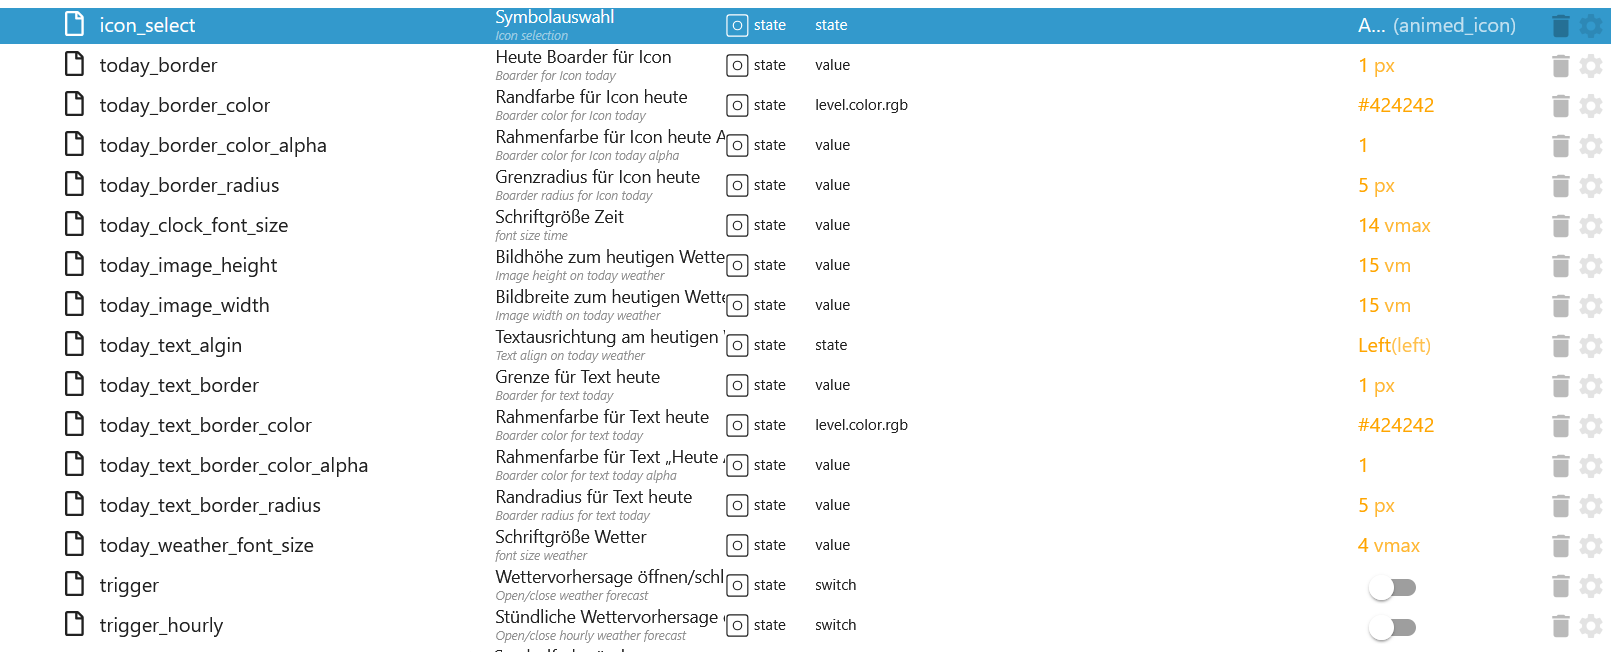
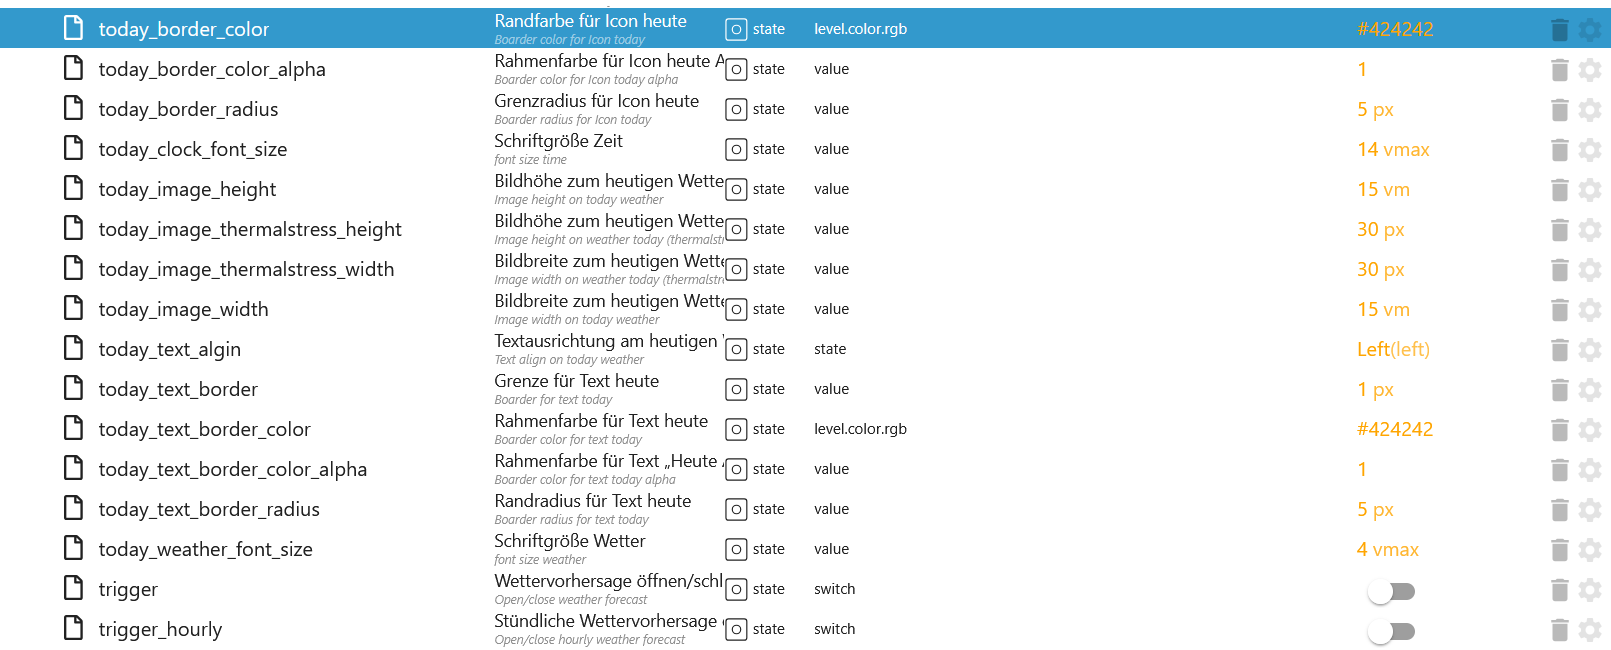
add images size & temp unit

diff --git a/lib/svgCreater.js b/lib/svgCreater.js
@@ -870,6 +870,128 @@ module.exports = class SVG {
         return s;
     }
 
+    async windrose2(degrees, html) {
+        let d = degrees;
+        d = d - 6;
+        let c = d + 12;
+        if (degrees >= 180 || degrees <= 0 || degrees === 360) {
+            d = -degrees;
+            d = d - 6;
+            c = d + 12;
+        }
+        if (!html.compass_bg_color_left) {
+            const val = await this.adapter.getStateAsync(`html.compass_bg_color_left`);
+            if (val && val.val) {
+                html.compass_bg_color_left = val.val;
+            } else {
+                html.compass_bg_color_left = "#6b7280";
+            }
+        }
+        if (!html.compass_bg_color_right) {
+            const val = await this.adapter.getStateAsync(`html.compass_bg_color_right`);
+            if (val && val.val) {
+                html.compass_bg_color_right = val.val;
+            } else {
+                html.compass_bg_color_right = "#6b7280";
+            }
+        }
+        if (!html.compass_bg_color_bottom) {
+            const val = await this.adapter.getStateAsync(`html.compass_bg_color_bottom`);
+            if (val && val.val) {
+                html.compass_bg_color_bottom = val.val;
+            } else {
+                html.compass_bg_color_bottom = "374151";
+            }
+        }
+        if (!html.compass_color_border) {
+            const val = await this.adapter.getStateAsync(`html.compass_color_border`);
+            if (val && val.val) {
+                html.compass_color_border = val.val;
+            } else {
+                html.compass_color_border = "#e5e7eb";
+            }
+        }
+        if (!html.compass_color_font) {
+            const val = await this.adapter.getStateAsync(`html.compass_color_font`);
+            if (val && val.val) {
+                html.compass_color_font = val.val;
+            } else {
+                html.compass_color_font = "#9ca3af";
+            }
+        }
+        if (!html.compass_color_needle_north) {
+            const val = await this.adapter.getStateAsync(`html.compass_color_needle_north`);
+            if (val && val.val) {
+                html.compass_color_needle_north = val.val;
+            } else {
+                html.compass_color_needle_north = "#ef4444";
+            }
+        }
+        if (!html.compass_color_needle_south) {
+            const val = await this.adapter.getStateAsync(`html.compass_color_needle_south`);
+            if (val && val.val) {
+                html.compass_color_needle_south = val.val;
+            } else {
+                html.compass_color_needle_south = "#ffffff";
+            }
+        }
+        let s = `<svg xmlns="http://www.w3.org/2000/svg"  version="1.1" width="120" height="120" style="">`;
+        s += `<rect id="backgroundrect" width="100%" height="100%" x="0" y="0" fill="none" stroke="none" style="" class=""/>`;
+        s += `<defs>`;
+        s += `    <linearGradient id="a" x1="0.25" x2="0.75" y1="0.06701389948527019" y2="0.9329861534966363">`;
+        s += `        <stop offset="0" stop-color="${html.compass_bg_color_left}"/>`;
+        s += `        <stop offset=".5" stop-color="${html.compass_bg_color_right}"/>`;
+        s += `        <stop offset="1" stop-color="${html.compass_bg_color_bottom}"/>`;
+        s += `    </linearGradient>`;
+        s += `</defs>`;
+        s += `<g class="currentLayer" style="">`;
+        s += `<title>Layer 1</title>`;
+        s += `<circle cx="256" cy="256" r="144" fill="url(#a)" stroke="${html.compass_color_border}" stroke-miterlimit="10" stroke-width="12"`;
+        s += ` id="svg_1" class="" transform="translate(-1.47059) translate(2.20588, -0.735294) translate(-8.08823, -5.14706)`;
+        s += ` translate(-100.735, -102.941) translate(0, 0.735294) translate(112, 112) scale(0.425551, 0.402574)`;
+        s += ` translate(-112, -112) translate(112, 112) scale(0.864685, 0.85192) translate(-112, -112)`;
+        s += ` translate(112, 112) scale(1.05872, 1.11489) translate(-112, -112)"/>`;
+        s += `<path fill="${html.compass_color_font}"`;
+        s += ` d="M61.44080308173051,15.0227437891938 v-4.305084676581498 h1.9369577624180114 v7.451108094083361`;
+        s += ` h-1.9790655398618813 l-2.652789978963799,-4.305084676581498 v4.305084676581498 h-1.9369577624180114`;
+        s += ` v-7.451108094083361 h1.9790655398618813 zm43.49733409951753,43.75456253025617 v1.3660364839152832`;
+        s += ` h4.126562189499244 v1.6558017986851947 h-6.105627729361124 v-7.451108094083361 H108.93837603841565`;
+        s += ` v1.6558017986851947 h-4.000238857167632 v1.2418513490138938 h3.4949455278411947 v1.5730117087509319`;
+        s += ` zm-44.802675200277484,48.01825216187055 a3.5370533052850663,3.4771837772389023 0 0 1`;
+        s += ` -2.2738199819689706,-0.6623207194740793 a2.4422510917444495,2.4009126080935284 0 0 1`;
+        s += ` -0.8421555488773981,-1.821381978553711 h1.8527422075302722 c0,0.6623207194740793`;
+        s += ` 0.4631855518825689,0.9934810792111152 1.3053411007599651,0.9934810792111152 c0.757939993989657,0`;
+        s += ` 1.0948022135406157,-0.2483702698027794 1.0948022135406157,-0.7037157644412074`;
+        s += ` a0.5474011067703088,0.5381355845726875 0 0 0 -0.16843110977547981,-0.4139504496712983`;
+        s += ` a1.9369577624180114,1.9041720684879704 0 0 0 -0.6737244391019187,-0.28976531476990885`;
+        s += ` l-1.431664433091574,-0.28976531476990885 c-1.2211255458722252,-0.28976531476990885`;
+        s += ` -1.8527422075302722,-0.9934810792111152 -1.8527422075302722,-2.02835720338936 a2.1053888721934904,2.0697522483564885`;
+        s += ` 0 0 1 0.715832216545788,-1.6144067537180615 a3.158083308290236,3.104628372534734 0 0 1`;
+        s += ` 2.1474966496373606,-0.6209256745069492 a3.3686221955095856,3.3116035973703832 0 0 1`;
+        s += ` 2.1053888721934904,0.6209256745069492 a2.189604427081231,2.152542338290749 0 0 1`;
+        s += ` 0.8421555488773981,1.6558017986851947 h-1.8106344300864041 c-0.08421555488774009,-0.5795306295398176`;
+        s += ` -0.4210777744386988,-0.8279008993425979 -1.1369099909844853,-0.8279008993425979`;
+        s += ` a1.2211255458722252,1.2004563040467642 0 0 0 -0.6737244391019187,0.1655801798685194`;
+        s += ` a0.5474011067703088,0.5381355845726875 0 0 0 -0.2526466646632194,0.4139504496712983`;
+        s += ` c0,0.3311603597370395 0.21053888721934938,0.5381355845726875 0.6737244391019187,0.6623207194740793`;
+        s += ` l1.4737722105354436,0.3311603597370395 q1.9790655398618813,0.455345494638429 1.9790655398618813,2.111147293323619`;
+        s += ` a2.063281094749622,2.02835720338936 0 0 1 -0.8421555488773981,1.6971968436523226`;
+        s += ` a3.5791610827289353,3.518578822206032 0 0 1 -2.2317122045251003,0.6209256745069492`;
+        s += ` zM18.069792314544586,57.65964010533748 l0.8421555488773981,-3.3116035973703832`;
+        s += ` h1.9790655398618813 l-2.189604427081231,7.451108094083361 h-1.8948499849741425`;
+        s += ` l-1.0526944360967452,-4.760430171219926 l-0.9684788812090054,4.760430171219926`;
+        s += ` h-1.9369577624180114 l-2.189604427081231,-7.451108094083361 h1.9790655398618813`;
+        s += ` l0.8421555488773981,3.3116035973703832 l0.37896999699482947,1.7385918886194518`;
+        s += ` l0.29475444210709006,-1.7799869335865814 l0.715832216545788,-3.270208552403254`;
+        s += ` h1.8527422075302722 l0.757939993989657,3.3116035973703832 l0.2526466646632194,1.6971968436523226 z" id="svg_2" class=""/>`;
+        s += `<g id="svg_3" class="">`;
+        s += `<path fill="${html.compass_color_needle_north}" d="m60.77941118694807,24.205883547898267 l-11.132354095504578,35.10294304087203 h22.264708191009156 l-11.132354095504578,-35.10294304087203 z" id="svg_4"/>`;
+        s += `<path fill="${html.compass_color_needle_south}" d="m49.64705709144349,59.308826588770295 l11.132354095504578,35.10294304087203 l11.132354095504578,-35.10294304087203 h-22.264708191009156 z" id="svg_5"/>`;
+        s += `<animateTransform additive="sum" attributeName="transform" calcMode="spline" dur="2s" keySplines=".42, 0, .58, 1; .42, 0, .58, 1" repeatCount="indefinite" type="rotate" values="${d} 65 65; ${c} 65 65; ${d} 65 65"/>`;
+        s += `</g></g></svg>`;
+        return s;
+    }
+
     accumulator(filled, color1, color2) {
         let s = "";
         if (filled < 100) {

diff --git a/main.js b/main.js
@@ -1427,6 +1427,7 @@ class OpenMeteo extends utils.Adapter {
     }
 
     async updateHTML() {
+        const unit = this.config.temperaturUnit === "default" ? "°C" : "F";
         const bg =
             this.html.bg_color != "#000"
                 ? `	 background-color:${this.hexToRGBA(this.html.bg_color, this.html.bg_color_alpha)};`
@@ -1451,7 +1452,7 @@ class OpenMeteo extends utils.Adapter {
             actual_temperature = parseFloat(actual_temp.val.toString());
         }
         const actual =
-            `<img width="${this.html.today_weather_font_size * 5}px" height="${this.html.today_weather_font_size * 5}px" ` +
+            `<img width="${this.html.today_image_thermalstress_width}px" height="${this.html.today_image_thermalstress_height}px" ` +
             `style="vertical-align:middle" alt="${actual_temperature}" title="${actual_temperature}" ` +
             `src='/adapter/open-meteo/img/thermalstress/${this.getThermalStress(actual_temperature)}'/>`;
         const trigger_val = this.html.trigger ? false : true;
@@ -1499,7 +1500,7 @@ class OpenMeteo extends utils.Adapter {
             `        <span class="box_date"><b><i>${name}, ${actual_date}</i></b></span>` +
             `    </div>` +
             `    <div class="container_column">` +
-            `        <span class="box_weather">${actual} <b><i>${actual_temperature}°C</i></b></span>` +
+            `        <span class="box_weather">${actual} <b><i>${actual_temperature}${unit}</i></b></span>` +
             `        <span class="box_weather"><i>${actual_text}</i></span>` +
             `    </div>` +
             `</div>` +
@@ -1540,7 +1541,7 @@ class OpenMeteo extends utils.Adapter {
             html += `<tr>
                         <td>${constants.DAYNAME[new Date(times).getDay()][this.lang]}</td>
                         <td>${daily}</td>
-                        <td>${min} ${temp_min}°C ${constants.DAYNAME.unit[this.lang]} ${max} ${temp_max}°C</td>
+                        <td>${min} ${temp_min}${unit} ${constants.DAYNAME.unit[this.lang]} ${max} ${temp_max}${unit}</td>
                         <td>${direc}</td>
                         <td>${humi} ${humidity}%</td>
                         <td align="left">${text}</td>
@@ -1553,6 +1554,7 @@ class OpenMeteo extends utils.Adapter {
     }
 
     async updateHTMLHourly(actual_temperature) {
+        const unit = this.config.temperaturUnit === "default" ? "°C" : "F";
         let h = new Date().getHours();
         const bg =
             this.html.bg_color != "#000"
@@ -1570,7 +1572,7 @@ class OpenMeteo extends utils.Adapter {
         const actual_text = this.value[`hourly.day01.hour${`0${h}`.slice(-2)}.weather_code_text`];
         const actual_clock = `${`0${new Date().getHours()}`.slice(-2)}:` + `${`0${new Date().getMinutes()}`.slice(-2)}`;
         const actual =
-            `<img width="${this.html.today_weather_font_size * 5}px" height="${this.html.today_weather_font_size * 5}px" ` +
+            `<img width="${this.html.today_image_thermalstress_width}px" height="${this.html.today_image_thermalstress_height}px" ` +
             `style="vertical-align:middle" alt="${actual_temperature}" title="${actual_temperature}" ` +
             `src='/adapter/open-meteo/img/thermalstress/${this.getThermalStress(actual_temperature)}'/>`;
         const trigger_val = this.html.trigger_hourly ? false : true;
@@ -1617,7 +1619,7 @@ class OpenMeteo extends utils.Adapter {
             `        <span class="box_date"><b><i>${name}, ${actual_date}</i></b></span>` +
             `    </div>` +
             `    <div class="container_column">` +
-            `        <span class="box_weather">${actual} <b><i>${actual_temperature}°C</i></b></span>` +
+            `        <span class="box_weather">${actual} <b><i>${actual_temperature}${unit}</i></b></span>` +
             `        <span class="box_weather"><i>${actual_text}</i></span>` +
             `    </div>` +
             `</div>` +
@@ -1659,7 +1661,7 @@ class OpenMeteo extends utils.Adapter {
                 html += `<tr>
                                 <td>${constants.DAYNAME[new Date(times).getDay()][this.lang]} ${this.timeCounting(new Date(times))}</td>
                                 <td>${daily}</td>
-                                <td>${min} ${temp}°C</td>
+                                <td>${min} ${temp}${unit}</td>
                                 <td>${direc}</td>
                                 <td>${humi} ${humidity}%</td>
                                 <td align="left">${text}</td>
@@ -1696,7 +1698,7 @@ class OpenMeteo extends utils.Adapter {
                     html += `<tr>
                                     <td>${constants.DAYNAME[new Date(times).getDay()][this.lang]} ${this.timeCounting(new Date(times))}</td>
                                     <td>${daily}</td>
-                                    <td nowrap>${min} ${temp}°C</td>
+                                    <td nowrap>${min} ${temp}${unit}</td>
                                     <td>${direc}</td>
                                     <td nowrap>${humi} ${humidity}%</td>
                                     <td align=left>${text}</td>

diff --git a/lib/helper.js b/lib/helper.js
@@ -1127,6 +1127,52 @@ module.exports = {
             def: 30,
         };
         await this.createDataPoint(`html.forecast_image_thermalstress_height`, common, "state", null, null);
+        common = {
+            type: "number",
+            role: "value",
+            name: {
+                en: "Image width on weather today (thermalstress)",
+                de: "Bildbreite zum heutigen Wetter (thermische Belastung)",
+                ru: "Ширина изображения погоды на сегодня (термостресс)",
+                pt: "Largura da imagem no clima de hoje (estresse térmico)",
+                nl: "Beeldbreedte op het weer vandaag (thermische belasting)",
+                fr: "Largeur de l'image sur la météo d'aujourd'hui (stress thermique)",
+                it: "Larghezza dell'immagine sul meteo di oggi (stress termico)",
+                es: "Ancho de la imagen según el clima de hoy (estrés térmico)",
+                pl: "Szerokość obrazu pogody na dziś (naprężenie termiczne)",
+                uk: "Ширина зображення щодо погоди сьогодні (термічний стрес)",
+                "zh-cn": "今日天气图像宽度（热应力）",
+            },
+            desc: "Image width on weather today (thermalstress)",
+            read: true,
+            write: true,
+            unit: "px",
+            def: 30,
+        };
+        await this.createDataPoint(`html.today_image_thermalstress_width`, common, "state", null, null);
+        common = {
+            type: "number",
+            role: "value",
+            name: {
+                en: "Image height on weather today (thermalstress)",
+                de: "Bildhöhe zum heutigen Wetter (thermische Belastung)",
+                ru: "Высота изображения на сегодняшней погоде (термостресс)",
+                pt: "Altura da imagem no clima de hoje (estresse térmico)",
+                nl: "Beeldhoogte bij het weer vandaag (thermische belasting)",
+                fr: "Hauteur de l'image sur la météo d'aujourd'hui (stress thermique)",
+                it: "Altezza dell'immagine sul meteo di oggi (stress termico)",
+                es: "Altura de la imagen según el tiempo de hoy (estrés térmico)",
+                pl: "Wysokość obrazu pogody na dziś (naprężenie termiczne)",
+                uk: "Висота зображення на сьогоднішній погоді (термічний стрес)",
+                "zh-cn": "今日天气的图像高度（热应力）",
+            },
+            desc: "Image height on weather today (thermalstress)",
+            read: true,
+            write: true,
+            unit: "px",
+            def: 30,
+        };
+        await this.createDataPoint(`html.today_image_thermalstress_height`, common, "state", null, null);
     },
     /**
      * Create Icon Color

diff --git a/docs/de/README.md b/docs/de/README.md
@@ -537,6 +537,8 @@
 | today_border_radius                 | Rahmenradius vom aktuellen Tag                                     |
 | today_clock_font_size               | Schriftgröße der Uhr vom aktuellen Tag                             |
 | today_image_height                  | Bildhöhe vom aktuellen Tag                                         |
+| today_image_thermalstress_height    | Bildhöhe vom Icon thermische Belastung (heute)                     |
+| today_image_thermalstress_width     | Bildhöhe vom Icon thermische Belastung (heute)                     |
 | today_image_width                   | Bildbreite vom aktuellen Tag                                       |
 | today_text_algin                    | Textausrichtung vom aktuellen Tag                                  |
 | today_text_border                   | Rahmenbreite Text vom aktuellen Tag                                |

diff --git a/docs/en/README.md b/docs/en/README.md
@@ -537,6 +537,8 @@
 | today_border_radius                 | Border radius of the current day                                   |
 | today_clock_font_size               | Font size of the clock for the current day                         |
 | today_image_height                  | Image height of the current day                                    |
+| today_image_thermalstress_height    | Image height of the thermal stress icon (today)                    |
+| today_image_thermalstress_width     | Image width of the thermal stress icon (today)                     |
 | today_image_width                   | Image width of the current day                                     |
 | today_text_algin                    | Text alignment of the current day                                  |
 | today_text_border                   | Text border width of the current day                               |
